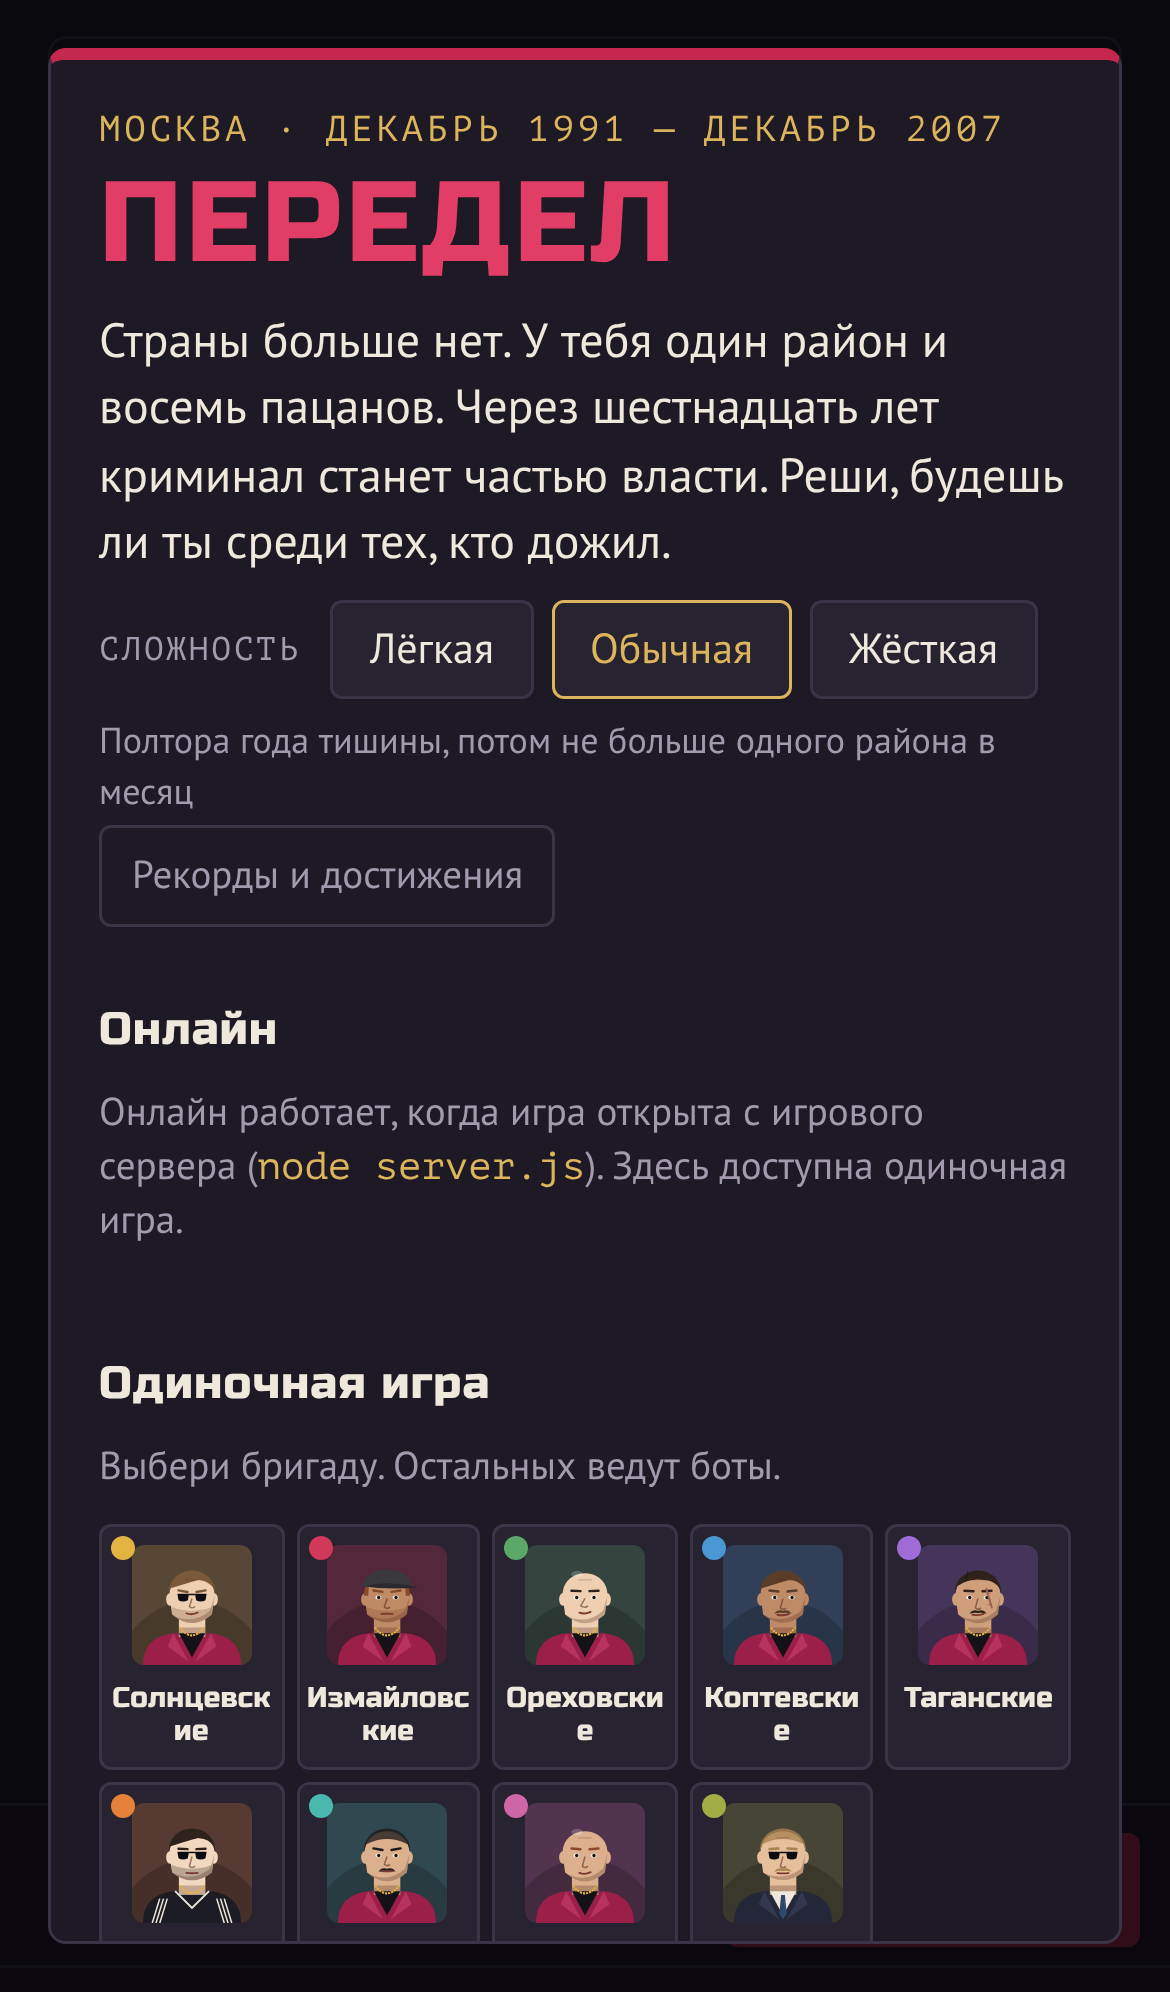
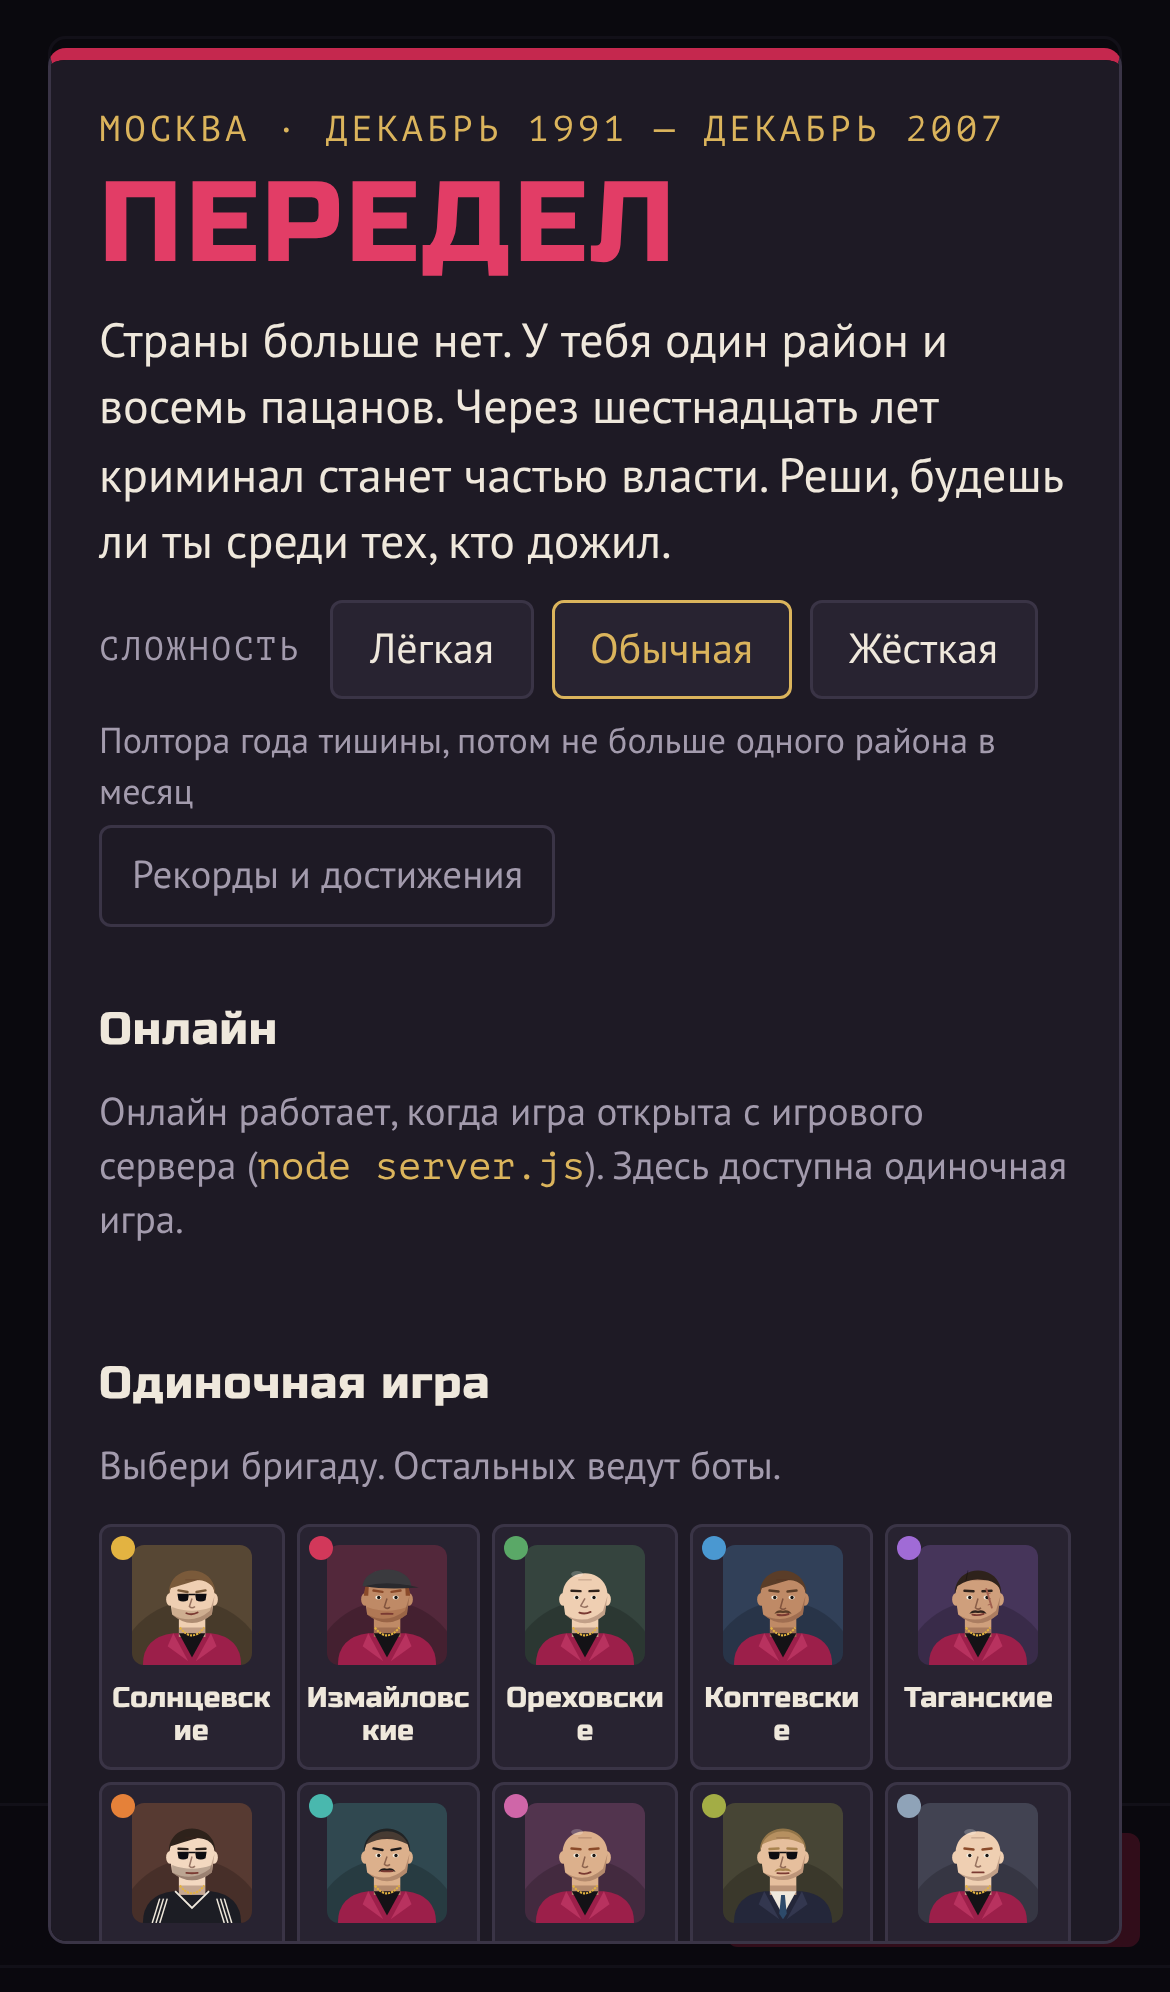
Десятая группировка — «Лазанские» (чеченская ОПГ начала 90-х, Замоскворечье): землячество, новые люди в семье верны (+2)
Claude-Session: https://claude.ai/code/session_01VU3Wi5L5vmKTpxuVuK6v8i

Changed region(s): [[0.7385, 0.9026, 0.8923, 0.9649]]

diff --git a/sw.js b/sw.js
@@ -1,5 +1,5 @@
 /* Сервис-воркер «Передела»: собирается build.js. Игра работает без сети, обновления подтягиваются при следующем запуске. */
-const CACHE = 'peredel-dc856fc12f';
+const CACHE = 'peredel-b14088df60';
 const FILES = ["./","index.html","css/style.css","manifest.webmanifest","js/data.js","js/events.js","js/geo.js","js/engine.js","js/art.js","js/net.js","js/music.js","js/sfx.js","js/ui.js","img/arm-aks.jpg","img/arm-obrez.jpg","img/arm-pm.jpg","img/arm-rpg.jpg","img/arm-svd.jpg","img/b-bordel.jpg","img/b-boutique.jpg","img/b-casino.jpg","img/b-chop.jpg","img/b-clinic.jpg","img/b-club.jpg","img/b-dorm.jpg","img/b-exchange.jpg","img/b-factory.jpg","img/b-flat.jpg","img/b-fuel.jpg","img/b-gunshop.jpg","img/b-gym.jpg","img/b-hotel.jpg","img/b-kiosk.jpg","img/b-land.jpg","img/b-market.jpg","img/b-port.jpg","img/b-prem.jpg","img/b-rest.jpg","img/b-ritual.jpg","img/b-scrap.jpg","img/b-service.jpg","img/b-tir.jpg","img/b-video.jpg","img/b-vokzal.jpg","img/b-warehouse.jpg","img/car-audi.jpg","img/car-bmw.jpg","img/car-cayenne.jpg","img/car-e65.jpg","img/car-escalade.jpg","img/car-gelik.jpg","img/car-jeep.jpg","img/car-lc100.jpg","img/car-merc.jpg","img/car-nine.jpg","img/car-rr.jpg","img/car-uaz.jpg","img/car-w220.jpg","img/car-x5.jpg","img/d-avtoz.jpg","img/d-bank.jpg","img/d-cars.jpg","img/d-club.jpg","img/d-coal.jpg","img/d-drugs.jpg","img/d-gold.jpg","img/d-gsm.jpg","img/d-guns.jpg","img/d-kidnap.jpg","img/d-mall.jpg","img/d-media.jpg","img/d-metal.jpg","img/d-oil.jpg","img/d-olymp.jpg","img/d-seaport.jpg","img/d-slots.jpg","img/d-tower.jpg","img/d-vodka.jpg","img/vest.jpg","icons/apple-180.png","icons/icon-192.png","icons/icon-512.png","icons/maskable-512.png"];
 self.addEventListener('install', e => { e.waitUntil(caches.open(CACHE).then(c => c.addAll(FILES)).then(() => self.skipWaiting())); });
 self.addEventListener('activate', e => { e.waitUntil(caches.keys().then(ks => Promise.all(ks.filter(k => k !== CACHE).map(k => caches.delete(k)))).then(() => self.clients.claim())); });

diff --git a/index.html b/index.html
@@ -2,7 +2,7 @@
 <html lang="ru">
 <head>
 <meta charset="utf-8">
-<meta name="app-ver" content="aae3472c7c">
+<meta name="app-ver" content="99193992b1">
 <meta name="viewport" content="width=device-width, initial-scale=1, viewport-fit=cover">
 <title>Передел</title>
 <link rel="manifest" href="manifest.webmanifest">
@@ -14,7 +14,7 @@
 <meta name="apple-mobile-web-app-title" content="Передел">
 <script>if (/tgWebApp/.test(location.hash + location.search)) document.write('<script src="https://telegram.org/js/telegram-web-app.js"><\/script>');</script>
 <link rel="stylesheet" href="https://fonts.googleapis.com/css2?family=PT+Mono&family=PT+Sans:wght@400;700&family=Russo+One&display=swap">
-<link rel="stylesheet" href="css/style.css?v=aae3472c7c">
+<link rel="stylesheet" href="css/style.css?v=99193992b1">
 <style>body{margin:0}[hidden]{display:none!important}</style>
 </head>
 <body>
@@ -50,15 +50,15 @@
 </div>
 <div id="modal" hidden></div>
 <div id="toast" hidden role="status"></div>
-<script src="js/data.js?v=aae3472c7c"></script>
-<script src="js/events.js?v=aae3472c7c"></script>
-<script src="js/geo.js?v=aae3472c7c"></script>
-<script src="js/engine.js?v=aae3472c7c"></script>
-<script src="js/art.js?v=aae3472c7c"></script>
-<script src="js/net.js?v=aae3472c7c"></script>
-<script src="js/music.js?v=aae3472c7c"></script>
-<script src="js/sfx.js?v=aae3472c7c"></script>
-<script src="js/ui.js?v=aae3472c7c"></script>
+<script src="js/data.js?v=99193992b1"></script>
+<script src="js/events.js?v=99193992b1"></script>
+<script src="js/geo.js?v=99193992b1"></script>
+<script src="js/engine.js?v=99193992b1"></script>
+<script src="js/art.js?v=99193992b1"></script>
+<script src="js/net.js?v=99193992b1"></script>
+<script src="js/music.js?v=99193992b1"></script>
+<script src="js/sfx.js?v=99193992b1"></script>
+<script src="js/ui.js?v=99193992b1"></script>
 <script>if ('serviceWorker' in navigator && location.protocol === 'https:') navigator.serviceWorker.register('sw.js');</script>
 </body>
 </html>

diff --git a/js/data.js b/js/data.js
@@ -164,7 +164,9 @@
     { id: 'lub', name: 'Люберецкие', home: 'Выхино', color: '#e58139', boss: 'Раменский', perk: 'Качки: на старте +6 бойцов' },
     { id: 'medv', name: 'Медведковские', home: 'Медведково', color: '#49b8ae', boss: 'Гриня', perk: 'Бывшие спецназовцы: потери в бою ниже на 30%' },
     { id: 'tush', name: 'Тушинские', home: 'Южное Тушино', color: '#cf66a8', boss: 'Аэродромный', perk: 'Торгаши: каждая точка приносит на 1 больше' },
-    { id: 'cher', name: 'Черёмушкинские', home: 'Черёмушки', color: '#a3ad45', boss: 'Профессор', perk: 'Общак от старших: на старте 30 тыс. $' }
+    { id: 'cher', name: 'Черёмушкинские', home: 'Черёмушки', color: '#a3ad45', boss: 'Профессор', perk: 'Общак от старших: на старте 30 тыс. $' },
+    // чеченская ОПГ начала 90-х; в прессе её звали «Лазанской» по ресторану «Лазания» на Пятницкой
+    { id: 'laz', name: 'Лазанские', home: 'Замоскворечье', color: '#8fa3b8', boss: 'Старший', perk: 'Чеченская община, землячество: новые люди в семье верны (верность +2)' }
   ];
 
   // Точки на районе. kind: w — белый, g — серый, b — чёрный

diff --git a/js/engine.js b/js/engine.js
@@ -200,6 +200,7 @@
     let nick = ''; for (let k = 0; k < 12; k++) { nick = D.NICKS[Math.floor(rnd(S) * D.NICKS.length)]; if (!used.has(nick)) break; }
     const st = v => clamp(Math.round(v + rr(S, -1, 2)), 1, 10);
     const c = { id: p.nid++, name: D.NAMES[Math.floor(rnd(S) * D.NAMES.length)] + ' ' + D.SURNAMES[Math.floor(rnd(S) * D.SURNAMES.length)], nick, age: ri(S, 19, 48), bio: b[0], str: st(4 + b[1]), wit: st(4 + b[2]), loy: st(4 + b[3]), pos: null, ok: null, st: 'ok', until: 0, since: S.turn };
+    if (fid === 'laz') c.loy = Math.min(10, c.loy + 2); // землячество
     p.crew.push(c); return c;
   }
   // что случилось с человеком: hurt — ранен, jail — посадили, dead — убит
